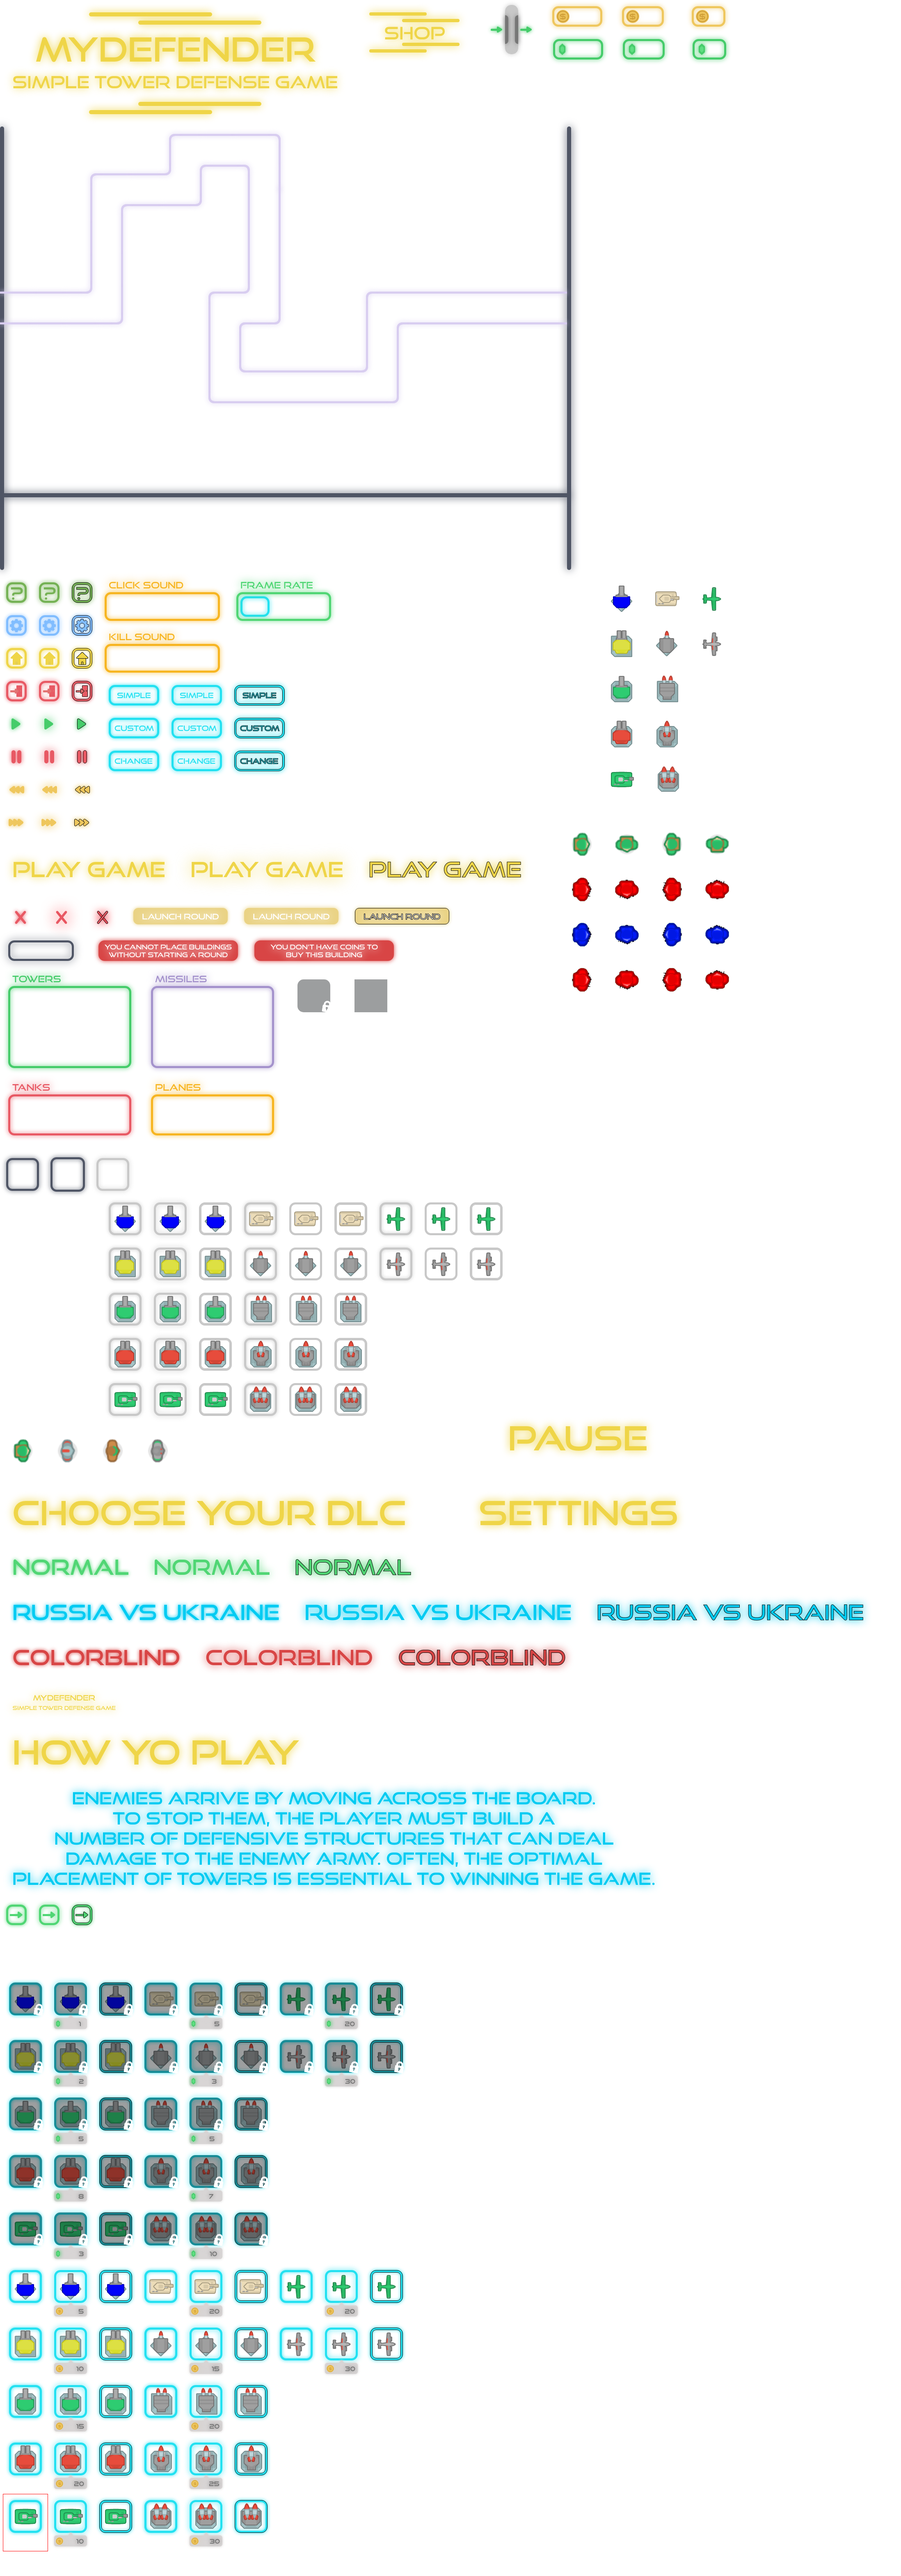
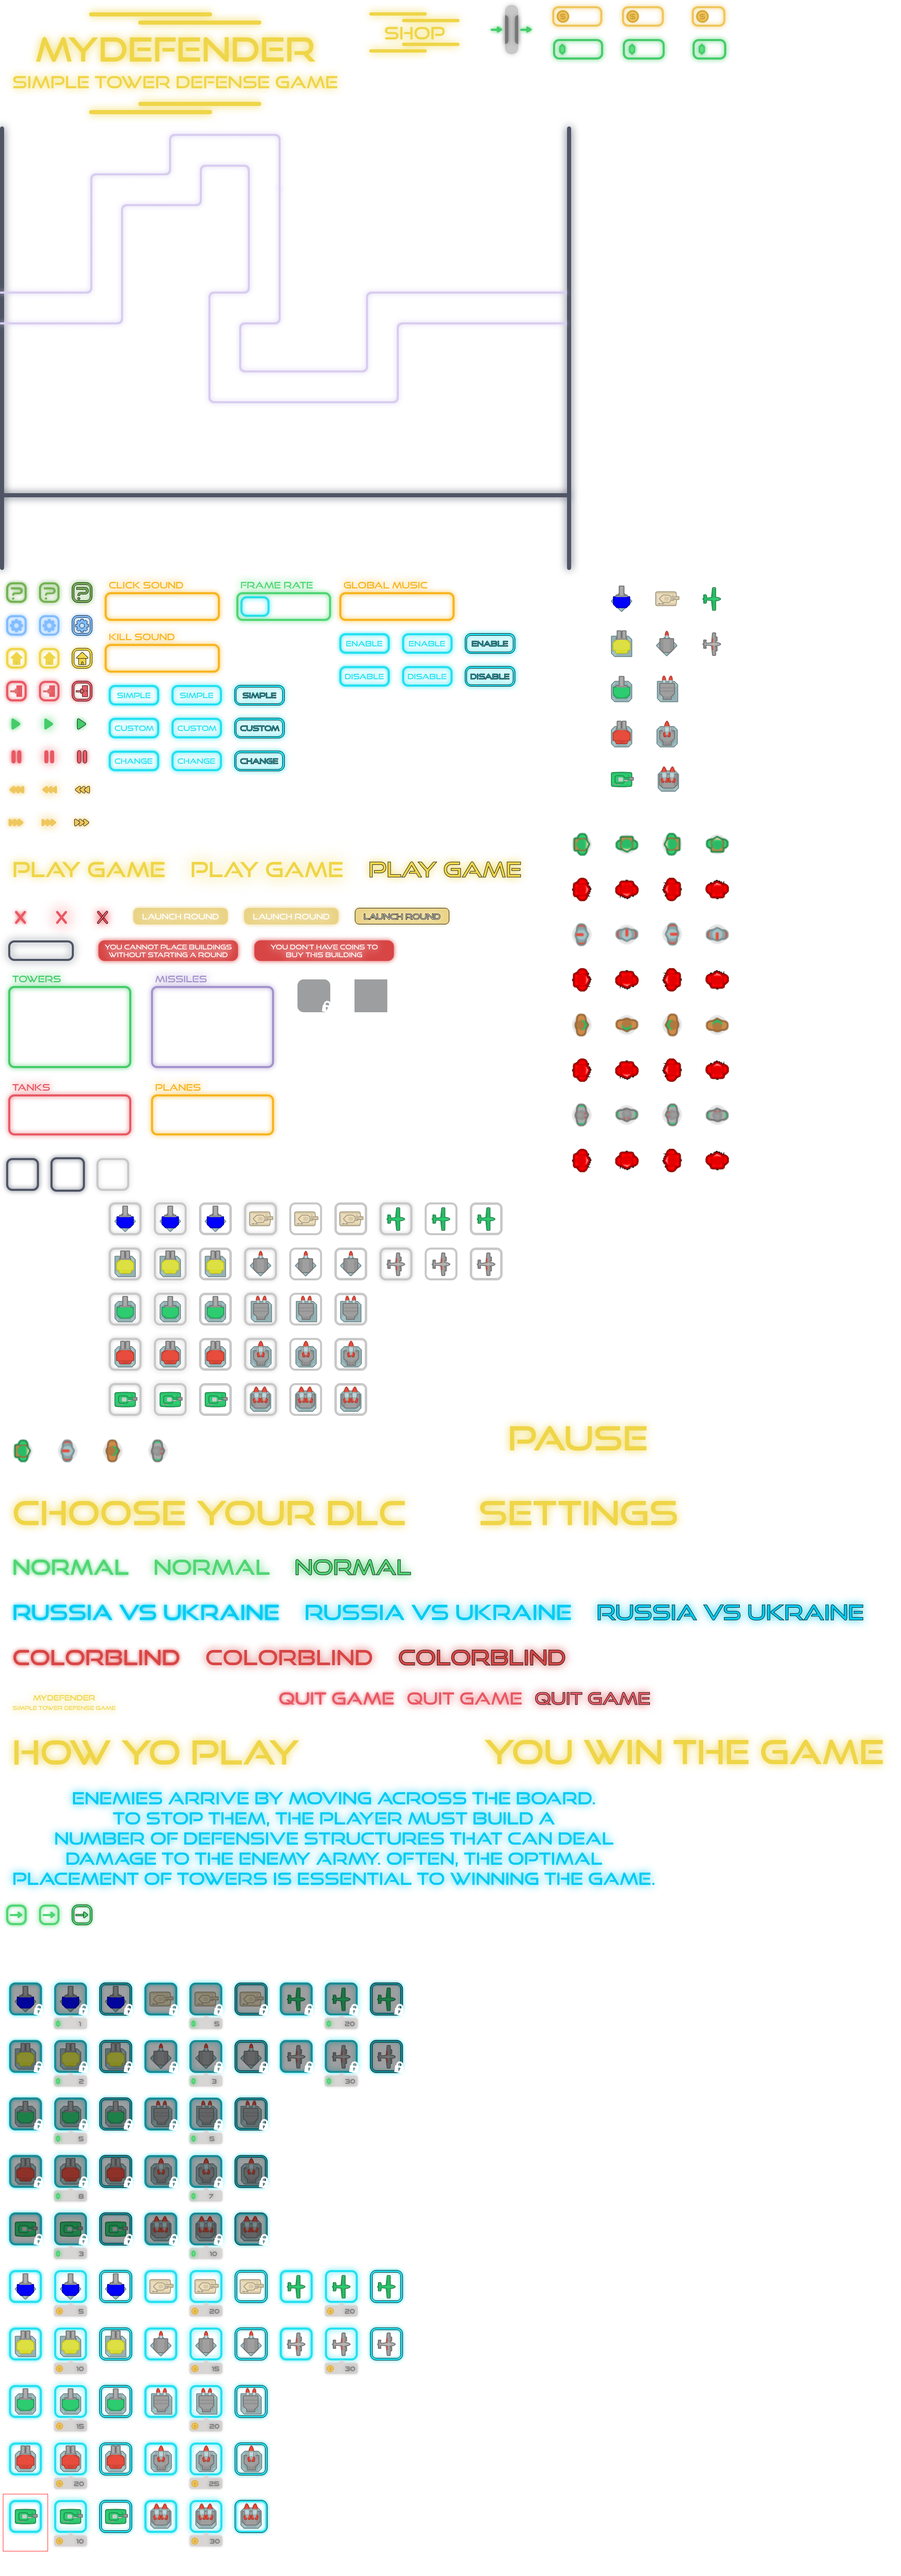
:white_check_mark: add win menu with skip scene

diff --git a/src/utils/texts/round.c b/src/utils/texts/round.c
@@ -1,0 +1,52 @@
+/*
+** EPITECH PROJECT, 2022
+** my_defender
+** File description:
+** No file there , just an epitech header example
+*/
+
+#include "utils.h"
+#include "my.h"
+
+void draw_spawn(dfd *df)
+{
+    sfFont* font = sfFont_createFromFile("resources/font.otf");
+    sfColor color = sfColor_fromRGB(34, 225, 241);
+    sfText* text = sfText_create();
+    sfVector2f vector2F;
+    char *str = "Spawn: ";
+    my_strcat_3(&str, my_itoa(df->spawn_round));
+    my_strcat_3(&str, "/");
+    my_strcat_3(&str, my_itoa(max_enemies(df)));
+    if (!font)
+        return;
+    sfText_setString(text, str);
+    sfText_setFont(text, font);
+    sfText_setCharacterSize(text, 18);
+    sfText_setColor(text, color);
+    vector2F.x = 41;
+    vector2F.y = 963;
+    sfText_setPosition(text, vector2F);
+    sfRenderWindow_drawText(df->window->window, text, NULL);
+}
+
+void draw_round(dfd *df)
+{
+    sfFont* font = sfFont_createFromFile("resources/font.otf");
+    sfColor color = sfColor_fromRGB(34, 225, 241);
+    sfText* text = sfText_create();
+    sfVector2f vector2F;
+    char *str = "Round: ";
+    my_strcat_3(&str, my_itoa(df->wave));
+    if (!font)
+        return;
+    sfText_setString(text, str);
+    sfText_setFont(text, font);
+    sfText_setCharacterSize(text, 18);
+    sfText_setColor(text, color);
+    vector2F.x = 41;
+    vector2F.y = 943;
+    sfText_setPosition(text, vector2F);
+    sfRenderWindow_drawText(df->window->window, text, NULL);
+    draw_spawn(df);
+}

diff --git a/src/game/enemies/hit.c b/src/game/enemies/hit.c
@@ -8,19 +8,27 @@
 #include "enemies.h"
 #include "utils.h"
 #include "rounds.h"
+#include "game.h"
+#include "my.h"
 
 void hit_enemy(dfd *df, node_enemy *enemy, node_earthly_build *earthly)
 {
+    int rand = my_rand(0, 7);
     enemy->enemy->life -= earthly->build->hit;
     if (enemy->enemy->life < 0 || enemy->enemy->life == 0) {
         enemy->enemy->life = 0;
-        df->emeralds += 3 + (df->wave * 2);
+        df->emeralds += 1 + (df->wave);
         sfMusic_stop(df->hit);
         sfMusic_play(df->hit);
     }
     add_hit_enemy(df, enemy, simple_id(1, enemy->id));
     add_hit_enemy(df, enemy, simple_id(0, enemy->id));
-    df->coins += 3 + (df->wave * 2);
-    if (enemy->enemy->life == 0 && count_enemies_life(df) == 0)
+    if (rand > 5)
+        df->coins += 1;
+    if (enemy->enemy->life == 0 && count_enemies_life(df) == 0
+        && df->spawn_round == max_enemies(df)) {
         stop_round(df);
+        if (df->wave == 7)
+            switch_step(df, END);
+    }
 }

diff --git a/src/setup/img/initializer.c b/src/setup/img/initializer.c
@@ -66,6 +66,16 @@ cf SETT[12] = {520, 73, 1030, 3613, 137, 760, 0, SETTINGS, -1};
 cf PAU_BG[12] = {0, 0, 864, 2385, 80, 80, 0, PAUSE_GAME, -1};
 cf PAU_TT[12] = {656, 472, 1165, 3431, 137, 489, 0, PAUSE_GAME, -1};
 
+cf WIN[12] = {398, 128, 1166, 4201, 127, 1006, 0, END, -1};
+cf WIN_T[12] = {744, 961, 0, 4090, 110, 313, 0, END_SKIP, -1};
+
+node_img *next_setup_img(dfd *df, node_img *node)
+{
+    add_to_list_img(&node, setup_a_anim_img(df, WIN));
+    add_to_list_img(&node, setup_a_anim_img(df, WIN_T));
+    return node;
+}
+
 node_img *next_img(dfd *df, node_img *node)
 {
     add_to_list_img(&node, setup_a_anim_img(df, TANK_D_2));
@@ -87,7 +97,7 @@ node_img *next_img(dfd *df, node_img *node)
     add_to_list_img(&node, setup_a_anim_img(df, HIT));
     add_to_list_img(&node, setup_a_anim_img(df, FPS));
     add_to_list_img(&node, setup_a_anim_img(df, SETT));
-    return node;
+    return next_setup_img(df, node);
 }
 
 node_img *setup_img(dfd *df)

diff --git a/src/game/enemies/other_enemy.c b/src/game/enemies/other_enemy.c
@@ -16,7 +16,25 @@ void spawn_blue_enemy(dfd *df)
     cf info[8] = {-83, 387, 1363, 2221, 110, 110, 0, MAINA};
     tmp->img = setup_a_anim_img(df, info);
     tmp->type = BOOST;
-    tmp->life = 100;
+    tmp->life = 30;
+    tmp->id_box = 147;
+    df->spawn_round++;
+    if (df->enemies == NULL) {
+        setup_first_clock_ene(&df->enemies_clocks);
+        setup_first_enemy(&df->enemies, tmp);
+    } else {
+        add_to_list_clock_ene(&df->enemies_clocks);
+        add_to_list_enemy(&df->enemies, tmp);
+    }
+}
+
+void spawn_yellow_enemy(dfd *df)
+{
+    enemy_t *tmp= malloc(sizeof(enemy_t));
+    cf info[8] = {-83, 387, 1363, 2441, 110, 110, 0, MAINA};
+    tmp->img = setup_a_anim_img(df, info);
+    tmp->type = BOOST;
+    tmp->life = 40;
     tmp->id_box = 147;
     df->spawn_round++;
     if (df->enemies == NULL) {

diff --git a/src/game/steps/global.c b/src/game/steps/global.c
@@ -17,6 +17,15 @@
 * que l'on a besoin à tel moment du jeu
 */
 
+void next_steps(dfd *df)
+{
+    if (df->drag->state == BUILDING)
+        draw_my_drag(df);
+    if (df->wave_status == IN_PROGRESS)
+        draw_round(df);
+    display_pause(df);
+}
+
 void global_steps(dfd *df)
 {
     display_img(df);
@@ -28,13 +37,12 @@ void global_steps(dfd *df)
     clock_spawn_enemies(df);
     clock_enemy_anim(df);
     clock_enemies_move(df);
+    end_clock(df);
     if (df->step == SETTINGS)
         draw_fps(df);
     if (df->step == POP || df->step == POP_MONEY)
         clock_pop_up(df);
     if (display(df, MAINA, df->step))
         exe_step_main(df);
-    if (df->drag->state == BUILDING)
-        draw_my_drag(df);
-    display_pause(df);
+    next_steps(df);
 }

diff --git a/src/setup/buttons/initializer_2.c b/src/setup/buttons/initializer_2.c
@@ -105,6 +105,8 @@ cf HIT_2[12] = {263, 420, 250, 1733, 80, 153, 2, 278, 435, 123, 50,SETTINGS};
 
 cf FPS_C[12] = {603, 304, 250, 1813, 80, 153, 2, 618, 319, 123, 50,SETTINGS};
 
+cf WI_Q[12] = {744, 614, 664, 4095, 79, 312, 2, 759, 629, 282, 49,END_SKIP};
+
 /*
 * Suite de l'initialisation des boutons
 */
@@ -122,6 +124,7 @@ node_button *re7_next_buttons(dfd *df, node_button *node)
     add_button(&node, setup_button(df, HIT_1, hit_1));
     add_button(&node, setup_button(df, HIT_2, hit_2));
     add_button(&node, setup_button(df, FPS_C, change_fps));
+    add_button(&node, setup_button(df, WI_Q, quit_button));
     return node;
 }
 

diff --git a/src/utils/end.c b/src/utils/end.c
@@ -1,0 +1,25 @@
+/*
+** EPITECH PROJECT, 2022
+** my_defender
+** File description:
+** No file there , just an epitech header example
+*/
+
+#include "utils.h"
+#include "game.h"
+
+void move_title(dfd *df)
+{
+    node_img *tmp = df->list_img;
+    sfVector2f vector;
+
+    while (tmp->id != 36)
+        tmp = tmp->next;
+    vector = sfSprite_getPosition(tmp->img->sprite);
+    if (vector.y < 478) {
+        vector.y += 2;
+        sfSprite_setPosition(tmp->img->sprite, vector);
+    } else
+        switch_step(df, END_SKIP);
+}
+

diff --git a/src/clocks/end.c b/src/clocks/end.c
@@ -1,0 +1,22 @@
+/*
+** EPITECH PROJECT, 2022
+** my_defender
+** File description:
+** No file there , just an epitech header example
+*/
+
+#include "clocks.h"
+#include "utils.h"
+#include "game.h"
+
+void end_clock(dfd *df)
+{
+    if (df->step != END)
+        return;
+    df->end->time = sfClock_getElapsedTime(df->end->clock);
+    df->end->seconds = df->end->time.microseconds / 1000000.0;
+    if (df->end->seconds > 0.01) {
+        move_title(df);
+        sfClock_restart(df->end->clock);
+    }
+}

diff --git a/src/game/actions/buttons_4.c b/src/game/actions/buttons_4.c
@@ -26,3 +26,17 @@ void pause_set(my_defender_pointer *df)
     else
         switch_step(d, MAIN);
 }
+
+void skip(my_defender_pointer *dfr)
+{
+    dfd *df = (dfd *) dfr;
+    node_img *tmp = df->list_img;
+    sfVector2f vector;
+
+    while (tmp->id != 36)
+        tmp = tmp->next;
+    vector = sfSprite_getPosition(tmp->img->sprite);
+    vector.y = 478;
+    sfSprite_setPosition(tmp->img->sprite, vector);
+    switch_step(df, END_SKIP);
+}

diff --git a/src/utils/texts/emeralds.c b/src/utils/texts/emeralds.c
@@ -11,15 +11,15 @@
 float get_rect_x_2(dfd *defender, int length)
 {
     switch (length) {
-        default:
         case 1:
             anim_img_id(defender, 11, 2);
             return 1327;
         case 2:
-        case 3:
             anim_img_id(defender, 11, 1);
             return 1302;
+        case 3:
         case 4:
+        default:
             anim_img_id(defender, 11, 0);
             return 1284;
     }

diff --git a/src/utils/texts/coins.c b/src/utils/texts/coins.c
@@ -11,15 +11,15 @@
 float get_rect_x(dfd *defender, int length)
 {
     switch (length) {
-        default:
         case 1:
             anim_img_id(defender, 10, 2);
             return 1327;
         case 2:
-        case 3:
             anim_img_id(defender, 10, 1);
             return 1302;
+        case 3:
         case 4:
+        default:
             anim_img_id(defender, 10, 0);
             return 1284;
     }

diff --git a/src/events/keys/other.c b/src/events/keys/other.c
@@ -7,9 +7,12 @@
 
 #include "events.h"
 #include "actions.h"
+#include "game.h"
 
 void my_key_cheat_code(dfd *df)
 {
     if (sfKeyboard_isKeyPressed(sfKeyEscape))
         pause_set((my_defender_pointer *) df);
+    if (sfKeyboard_isKeyPressed(sfKeySpace) && df->step == END)
+        skip((my_defender_pointer *) df);
 }
